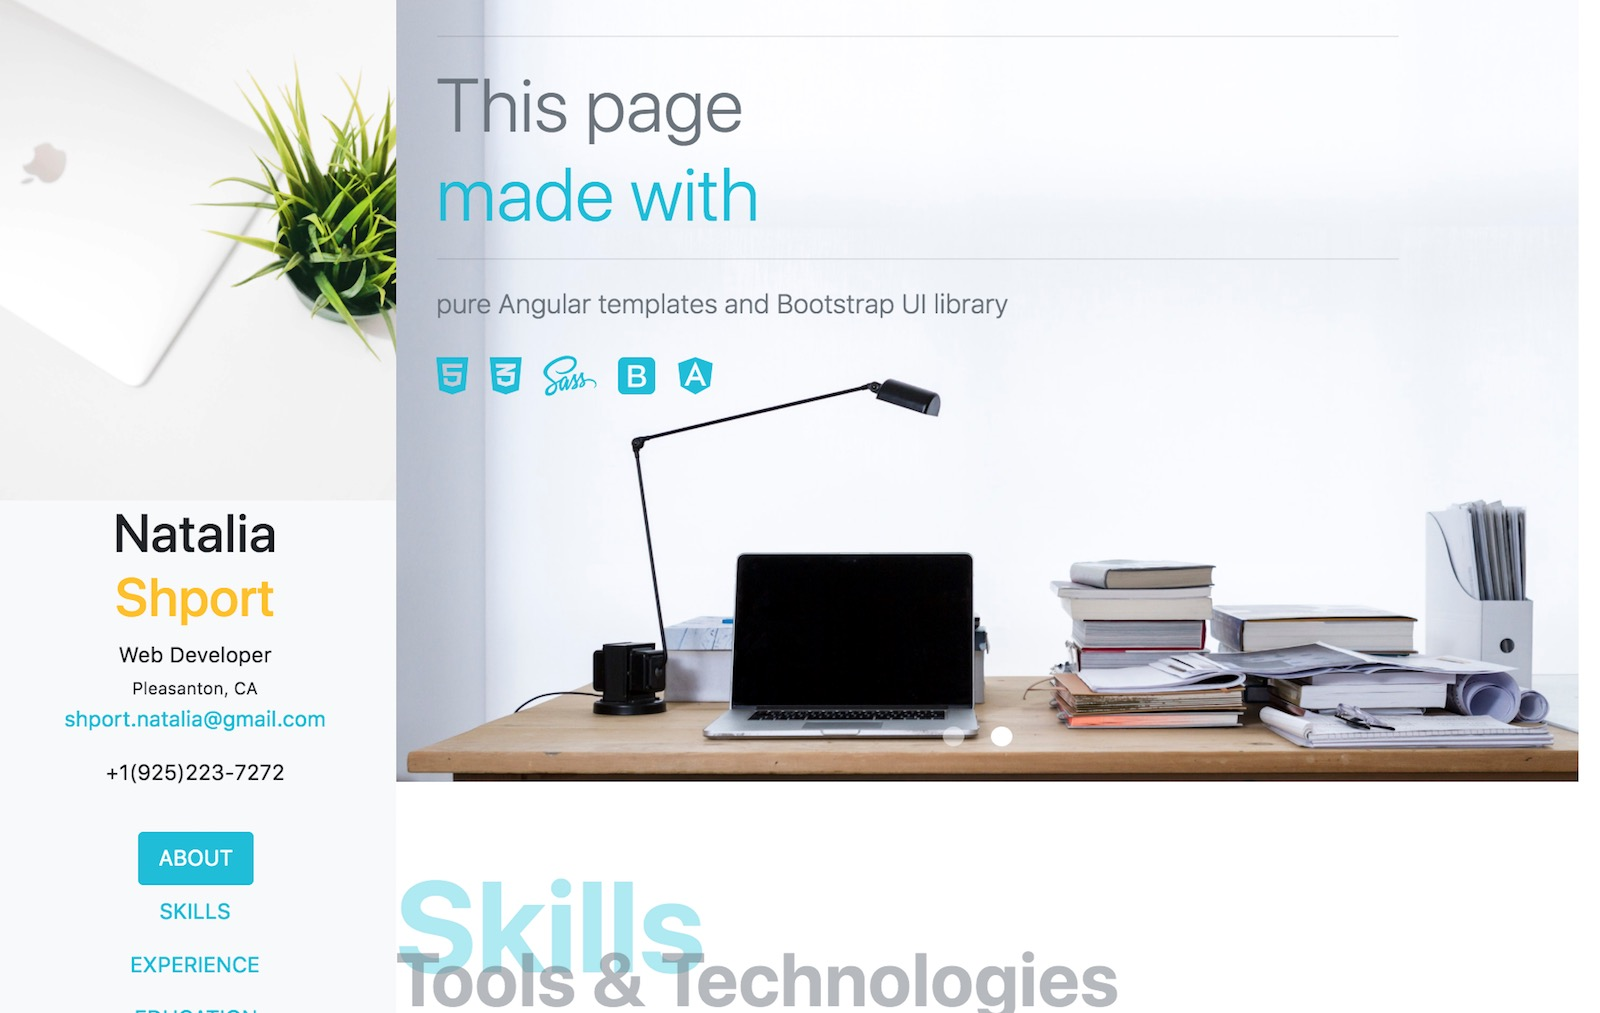
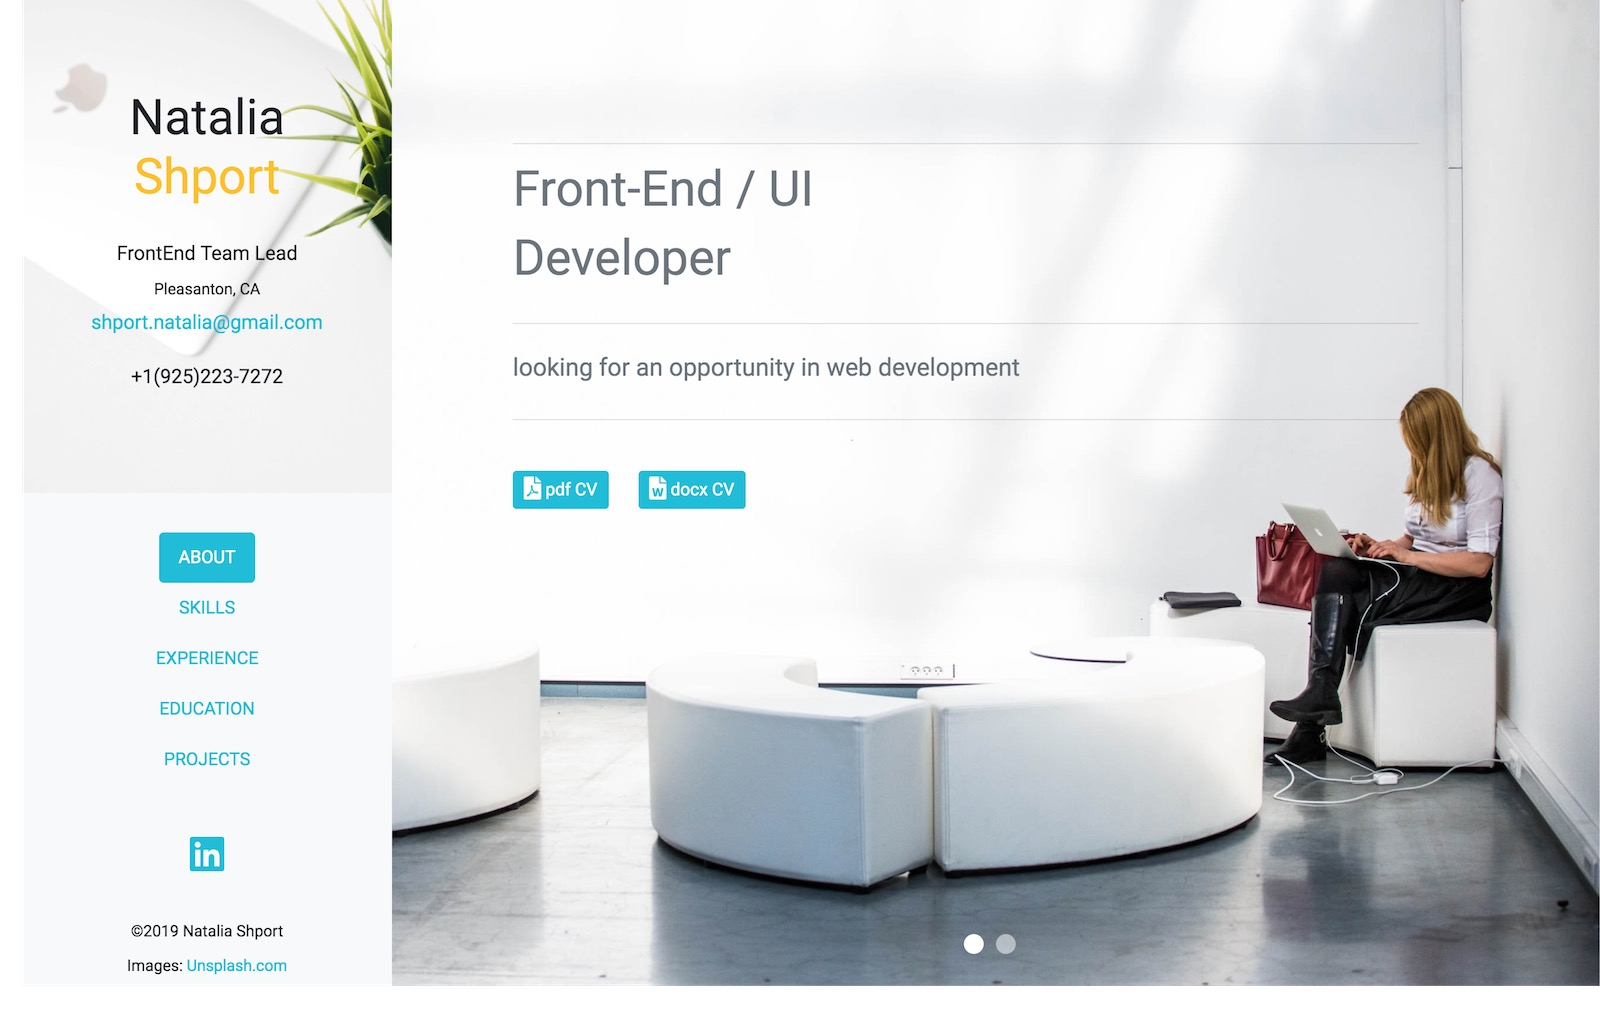
Changes in texts

diff --git a/src/app/carousel-item/carousel-item.component.html b/src/app/carousel-item/carousel-item.component.html
@@ -1,39 +1,38 @@
 <div *ngFor="let carouselItem of carouselItems" class="carousel-item {{ carouselItem.isactive }}" [ngStyle]="{'background-image':' url(' + carouselItem.image + ')'}">
-  <div class="carousel-caption text-left align-middle text-secondary">
+  <div class="carousel-caption text-left text-secondary">
     <!-- carousel-item title -->
-    <hr/>
+    
     <div class="carousel-title m-0 p-0">{{ carouselItem.title }}</div>
     <div class="carousel-subtitle m-0 p-0">{{ carouselItem.subtitle }}</div>
-    <hr/>
-    <div class="text-secondary">
-      <p class="lead mb-4">{{ carouselItem.text }}</p>
+    
+    <div class="carousel-text text-secondary lead p-4">
+      {{ carouselItem.text }}
+      <div *ngIf="carouselItem.icons" class="pt-4">
+        <i class="fab fa-html5 fa-2x text-primary mr-3"></i>
+        <i class="fab fa-css3-alt fa-2x text-primary mr-3"></i>
+        <i class="fab fa-sass fa-2x text-primary mr-3"></i>
+        <i class="fab fa-bootstrap fa-2x text-primary mr-3"></i>
+        <i class="fab fa-angular fa-2x text-primary mr-3"></i>
+      </div>
+    </div>
 
-      <div *ngIf="carouselItem.icons">
-        <div>
-          <i class="fab fa-html5 fa-2x text-primary mr-3"></i>
-          <i class="fab fa-css3-alt fa-2x text-primary mr-3"></i>
-          <i class="fab fa-sass fa-2x text-primary mr-3"></i>
-          <i class="fab fa-bootstrap fa-2x text-primary mr-3"></i>
-          <i class="fab fa-angular fa-2x text-primary mr-3"></i>
-        </div>
-        <hr/>
-        <div>
+      <div>
+        <div *ngIf="carouselItem.icons">
           <a href="#projects" class="btn my-4">
             <i class="fas fa-briefcase fa-lg"></i> View Portfolio
           </a>
         </div>
       </div>
+
       <div *ngIf="!carouselItem.icons">
-        <hr/>
-        <a href="/assets/N_Shport_Resume.pdf" alt="CV in PDF format" download class="btn">
-          <i class="fas fa-file-pdf fa-lg"></i> pdf CV 
-        </a>
-        <a href="/assets/N_Shport_Resume.docx" alt="CV in DOCX format" download class="btn m-4">
-          <i class="fas fa-file-word fa-lg"></i> docx CV
+        <a href="/assets/N_Shport_Resume.pdf" alt="CV in PDF format" download class="btn mt-4 mr-4">
+          <i class="fas fa-file-pdf fa-lg"></i> Download pdf CV 
+        </a><br/>
+        <a href="/assets/N_Shport_Resume.docx" alt="CV in DOCX format" download class="btn mt-4 mr-4">
+          <i class="fas fa-file-word fa-lg"></i> Download docx CV
         </a>
       </div>
       
-    </div>
 
   </div>
 </div>

diff --git a/src/app/nav/nav.component.html b/src/app/nav/nav.component.html
@@ -10,7 +10,7 @@
       <h1 class="px-2 my-4">
         {{ contactData.firstname }}<br/><span class="text-warning">{{ contactData.lastname }}</span>
       </h1>      
-      <div>{{ contactData.experience[0].title }}</div>
+      <div>{{ contactData.title }}</div>
       <small>{{ contactData.address.city }}, {{ contactData.address.state }}</small>
       <p class="mx-2"><a href="mailto:{{ contactData.email }}">{{ contactData.email }}</a></p>
       <p>{{ contactData.phone }}</p>
@@ -23,11 +23,10 @@
     <a class="nav-link" href="#experience">Experience</a>
     <a class="nav-link" href="#education">Education</a>
     <a class="nav-link" href="#projects">Projects</a>
-    <!-- <a class="nav-link" href="#contacts">Contacts</a> -->
   </nav>
   <div *ngFor="let profile of contactData.profiles" class="mb-4">
     <a *ngIf="profile.url" href="{{ profile.url }}" target="_blank">
-      <i class="{{ profile.icon }} fa-2x m-2 btn-service" ></i>
+      <i class="{{ profile.icon }} fa-2x m-2" ></i>
     </a>
   </div>
   <div><small>©2019 Natalia Shport</small></div>

diff --git a/src/app/nav/nav.component.scss b/src/app/nav/nav.component.scss
@@ -2,16 +2,6 @@
     z-index: 1010;
 }
 
-.nav-link {
-    text-transform: uppercase;
-    font-size: 0.9em;
-}
-  
-.show {
-    display: block !important;
-    
-}
-
 #my-resume-title {
     background-image: url(https://images.unsplash.com/photo-1522129725604-5def7adf21c4?ixlib=rb-1.2.1&ixid=eyJhcHBfaWQiOjEyMDd9&auto=format&fit=crop&w=2500&q=80);
     background-size: 130%;
@@ -20,11 +10,24 @@
     width: 100%;
     height: 50%;
     min-height: 350px;
-    // display:inline-block; 
-    // vertical-align:bottom;
-    // position: relative; 
-    // display: table-cell; 
-    // vertical-align: bottom;
+}
 
+.nav-link {
+    text-transform: uppercase;
+    font-size: 0.9em;
+    border-radius: 0;
+    margin: 2px;
+    &:hover, &:active {
+        background-color: var(--info);
+        box-shadow: 0 5px 10px rgba(0,0,0,0.25), 
+                    0 5px 10px rgba(0,0,0,0.20);
+        transform: translateY(-1px);
+        filter: grayscale(10%);
+        color: white;
+    }
+}
 
+.show {
+    display: block !important;
+    
 }

diff --git a/src/app/about/about.component.html b/src/app/about/about.component.html
@@ -11,7 +11,7 @@
   <div id="summary" class="section container-fluid animated fadeInUp">
       <app-section-title title="About" subtitle="About me"></app-section-title>
     <div class="lead px-4">
-      <p>My name is Natalia. I am a web developer. I had 7 years of  experience working in a web-design studio, got a team lead position and then left my dream job due to family needs and moved to the USA. After 10 years gap, I am going to start my career again.</p>
+      <p>My name is Natalia. I am a Web Developer. Having 7 years of experience in FrontEnd development in an intensive web-design studio environment. Left my dream job due to family needs and changed the country. After 10 years gap, I am going to start my career again.</p>
       <p>For now, I am learning modern frameworks - Angular and React, improving knowledge in developing responsive layouts for all desktop and mobile devices, discovering ways of using API, working with version control tools.</p>
       <p>Considering entry-level positions.</p>
   </div>

diff --git a/src/styles.scss b/src/styles.scss
@@ -77,11 +77,10 @@ hr {
   @extend .btn-primary;
   color:white !important;
   @extend .btn-sm;
+  border-radius: 0;
+  border: 0px;
   &:hover, &:active {
-    @extend .btn-outline-primary;
-    @extend .text-primary;
-    background-color: white;
-    color: var(--primary) !important;
+    //background-color: var(--warning);
     box-shadow: 0 5px 10px rgba(0,0,0,0.25), 
                 0 5px 10px rgba(0,0,0,0.20);
     transform: translateY(-1px);
@@ -92,7 +91,6 @@ hr {
     box-shadow: 0 5px 10px rgba(0,0,0,0.25), 
                 0 5px 10px rgba(0,0,0,0.20);
     &:hover, &:active {
-      background-color: white;
       box-shadow: none;
     }
   }

diff --git a/src/app/carousel-item/carousel-item.component.scss b/src/app/carousel-item/carousel-item.component.scss
@@ -1,6 +1,6 @@
 .carousel-item {
     height: 100vh;
-    //max-height: 600px;
+    min-height: 500px;
     background-repeat: no-repeat;
     background-size: cover;
     background-position: bottom right;
@@ -20,4 +20,8 @@
 
 .carousel-subtitle {
     font-size: 2.5em;
+}
+
+.carousel-text {
+    background-color: rgba(255, 255, 255, 0.5);
 }
